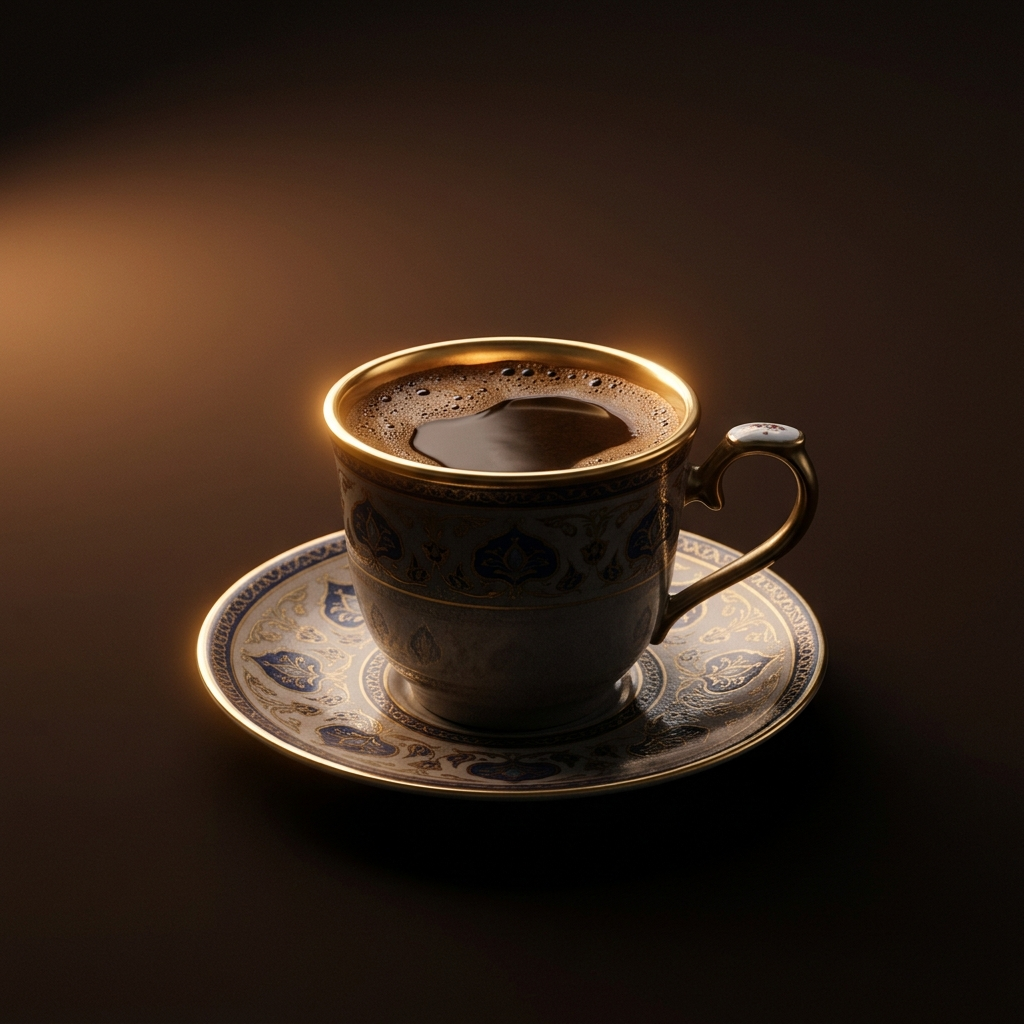
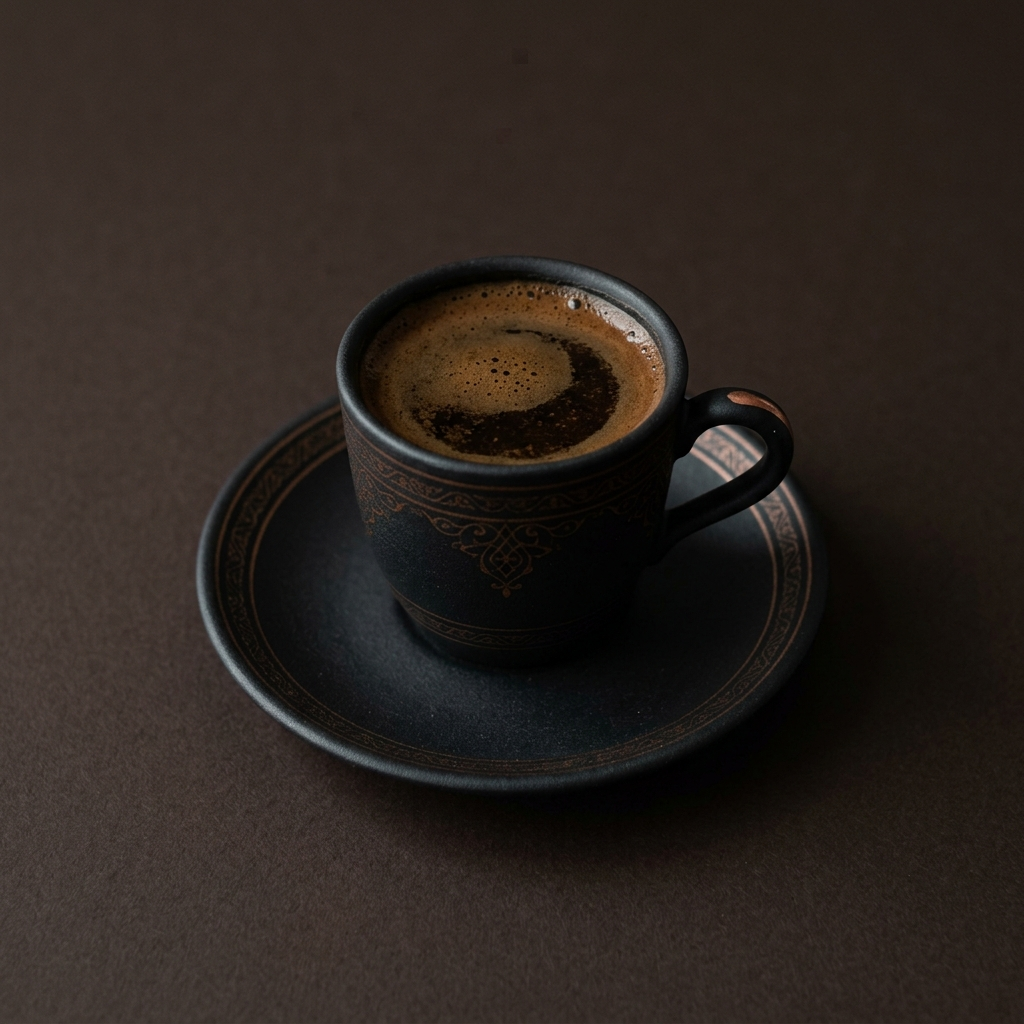
💾 sadam güncelleme 10-04-2026 14:45

diff --git a/lib/screens/coffee_page.dart b/lib/screens/coffee_page.dart
@@ -443,39 +443,10 @@ class _CoffeePageState extends State<CoffeePage> with TickerProviderStateMixin {
                 child: Column(
                   mainAxisAlignment: MainAxisAlignment.center,
                   children: [
-                    const Spacer(flex: 1),
-                    AnimatedBuilder(
-                      animation: _floatCtrl,
-                      builder: (context, child) {
-                        final dy = (Curves.easeInOutSine.transform(_floatCtrl.value) * 15) - 7.5;
-                        return Transform.translate(
-                          offset: Offset(0, dy),
-                          child: child,
-                        );
-                      },
-                      child: ClipRRect(
-                        borderRadius: BorderRadius.circular(1000),
-                        child: Container(
-                          width: 150, // Biraz ufaltıldı ki her ekrana sığsın
-                          height: 150,
-                          decoration: BoxDecoration(
-                            shape: BoxShape.circle,
-                            boxShadow: [
-                              BoxShadow(
-                                color: const Color(0xFFD4A373).withOpacity(0.1),
-                                blurRadius: 40,
-                                spreadRadius: 10,
-                              ),
-                            ],
-                          ),
-                          child: Image.asset(
-                            'assets/images/turkish_coffee_cup.png',
-                            fit: BoxFit.cover,
-                          ),
-                        ),
-                      ),
-                    ),
-                    const SizedBox(height: 24),
+                    const Spacer(),
+                    
+                    // KULLANICI BURAYA KENDİ İSTEDİĞİ GÖRSELİ/ANİMASYONU EKLEYECEK
+                    
                     Text(
                       'Fal Öncesi Ritüeli',
                       style: GoogleFonts.inter(
@@ -505,7 +476,7 @@ class _CoffeePageState extends State<CoffeePage> with TickerProviderStateMixin {
                     const SizedBox(height: 12),
                     _buildRitualRow(Icons.flip_camera_android_rounded, 'Ters Çevir, Soğut', 'Fincanı ters kapatıp dileğini dile ve soğumasını bekle.'),
                     
-                    const Spacer(flex: 2),
+                    const Spacer(),
                     
                     // Kilit veya Normal Buton
                     GestureDetector(

diff --git a/lib/screens/owl_letter_page.dart b/lib/screens/owl_letter_page.dart
@@ -1279,17 +1279,20 @@ class _ReceivedLetterViewState extends State<_ReceivedLetterView>
                             children: [
                               const SizedBox(height: 10),
                               Expanded(
-                                child: SingleChildScrollView(
-                                  physics: const BouncingScrollPhysics(),
-                                  child: Text(
-                                    widget.message,
-                                    textAlign: TextAlign.center,
-                                    style: const TextStyle(
-                                      color: Color(0xFF4A3928),
-                                      fontSize: 13,
-                                      fontWeight: FontWeight.w500,
-                                      height: 1.6,
-                                      letterSpacing: 0.1,
+                                child: Align(
+                                  alignment: Alignment.center,
+                                  child: SingleChildScrollView(
+                                    physics: const BouncingScrollPhysics(),
+                                    child: Text(
+                                      widget.message,
+                                      textAlign: TextAlign.center,
+                                      style: const TextStyle(
+                                        color: Color(0xFF4A3928),
+                                        fontSize: 13,
+                                        fontWeight: FontWeight.w500,
+                                        height: 1.6,
+                                        letterSpacing: 0.1,
+                                      ),
                                     ),
                                   ),
                                 ),
